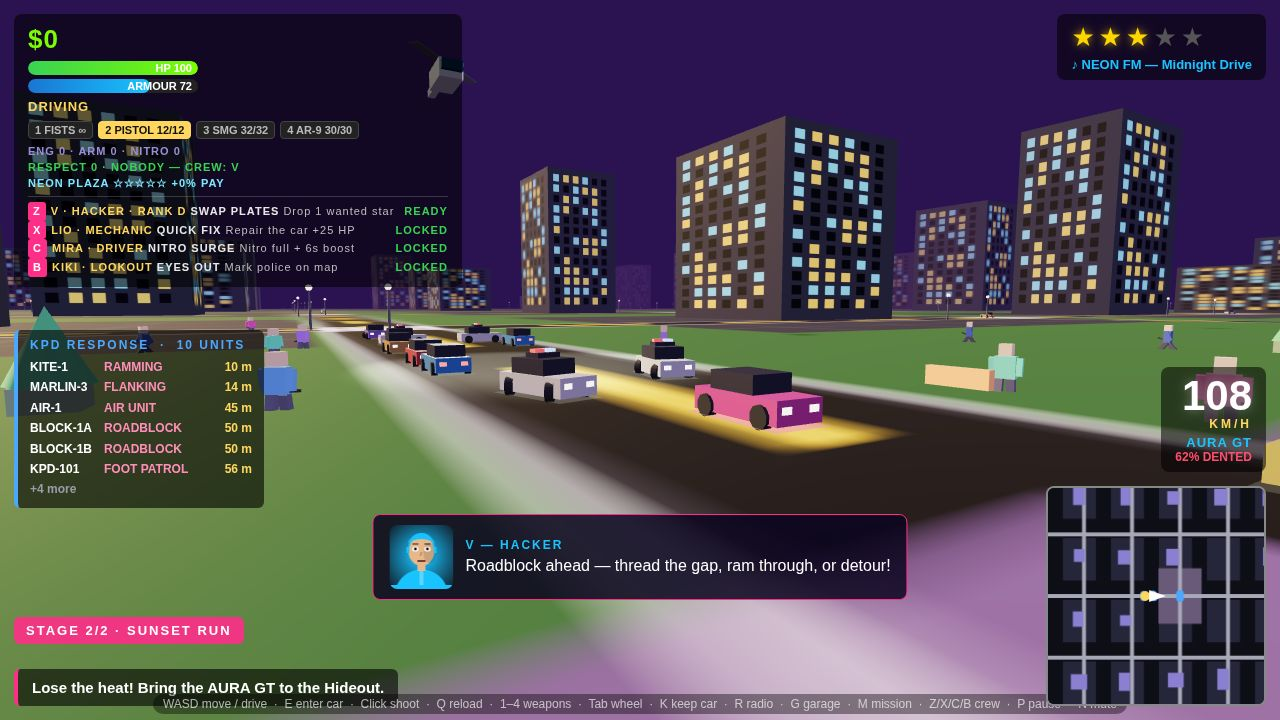
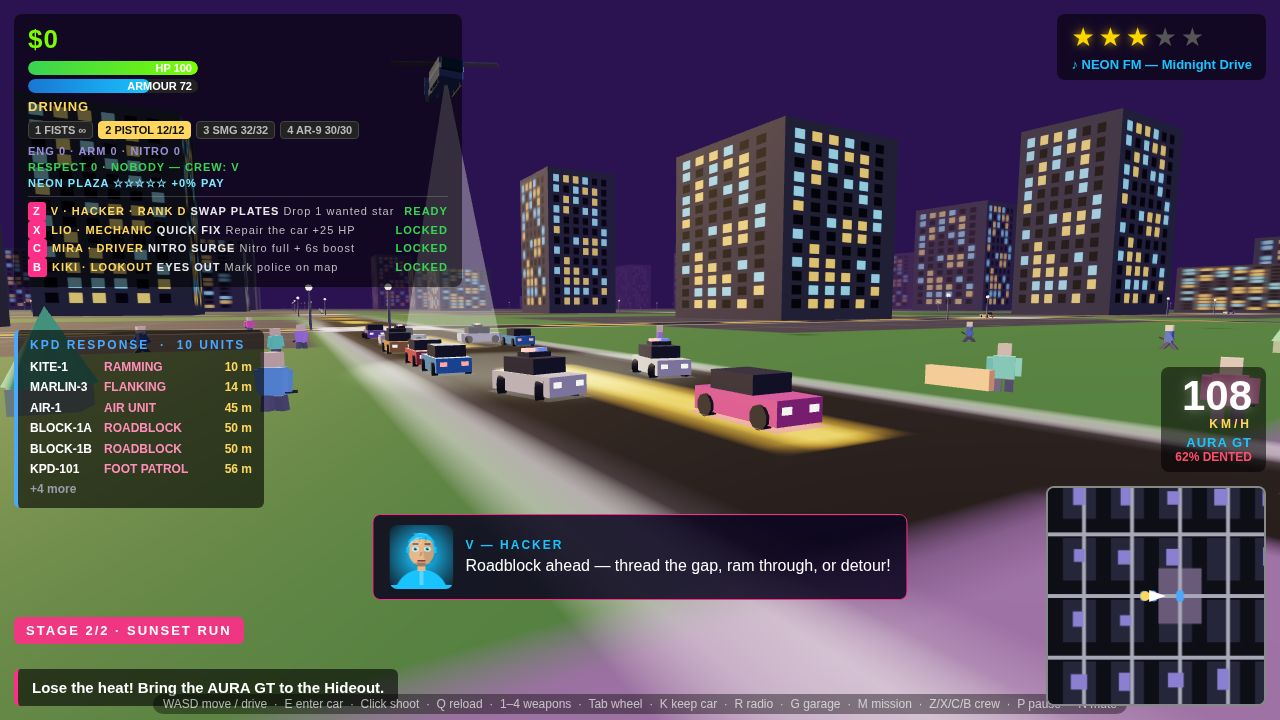
Art polish vs r1: heli searchlight cone + skids + navy body, shaded portraits, dense foreground staging

diff --git a/game/src/entities.js b/game/src/entities.js
@@ -101,27 +101,72 @@ const NV_ENTITIES = {
   },
 
   // News helicopter: body, tail, spinning rotor and a searchlight.
+  // Police helicopter: dark navy body with a white stripe (reads against
+  // the purple sunset sky instead of a white box), tail fin + tail rotor,
+  // landing skids, and a visible searchlight cone + ground spot so the
+  // searchlight reads in a still frame. The cone/spot are children of the
+  // group, scaled to the heli's altitude each frame by NV_POLICE; their
+  // creation defaults match a 26-unit hover (the mission shot's pose), so
+  // staged shots that never run the police loop still show them.
   makeHeli(scene) {
     const group = new THREE.Group();
-    const bodyMat = new THREE.MeshStandardMaterial({ color: 0xe8e8e8, roughness: 0.4, metalness: 0.3 });
+    const bodyMat = new THREE.MeshStandardMaterial({ color: 0x22345e, roughness: 0.4, metalness: 0.3 });
     const body = new THREE.Mesh(new THREE.BoxGeometry(4.5, 1.7, 2.2), bodyMat);
     group.add(body);
+    const stripe = new THREE.Mesh(new THREE.BoxGeometry(4.6, 0.4, 2.25), new THREE.MeshStandardMaterial({ color: 0xf2f2f2, roughness: 0.5 }));
+    stripe.position.set(0, 0.1, 0);
+    group.add(stripe);
     const tail = new THREE.Mesh(new THREE.BoxGeometry(5, 0.7, 0.7), bodyMat);
     tail.position.set(-4.4, 0.3, 0);
     group.add(tail);
+    const fin = new THREE.Mesh(new THREE.BoxGeometry(0.15, 1.8, 1.4), bodyMat);
+    fin.position.set(-6.6, 0.9, 0);
+    group.add(fin);
+    const tailRotor = new THREE.Mesh(new THREE.BoxGeometry(0.08, 2.2, 0.3), new THREE.MeshStandardMaterial({ color: 0x222222 }));
+    tailRotor.position.set(-6.6, 0.5, 0.45);
+    group.add(tailRotor);
     const glass = new THREE.Mesh(new THREE.BoxGeometry(1.2, 0.9, 1.9), new THREE.MeshStandardMaterial({ color: 0x0a2a3a, roughness: 0.2, metalness: 0.6 }));
     glass.position.set(2.2, 0.2, 0);
     group.add(glass);
     const rotor = new THREE.Mesh(new THREE.BoxGeometry(10, 0.08, 0.9), new THREE.MeshStandardMaterial({ color: 0x222222 }));
     rotor.position.y = 1.1;
     group.add(rotor);
+    // Landing skids: two rails + four struts.
+    const skidMat = new THREE.MeshStandardMaterial({ color: 0x222222, roughness: 0.6 });
+    for (const sz of [-1.0, 1.0]) {
+      const rail = new THREE.Mesh(new THREE.BoxGeometry(3.6, 0.12, 0.12), skidMat);
+      rail.position.set(0, -1.25, sz);
+      group.add(rail);
+      for (const sx of [-1.2, 1.2]) {
+        const strut = new THREE.Mesh(new THREE.BoxGeometry(0.12, 0.6, 0.12), skidMat);
+        strut.position.set(sx, -0.95, sz);
+        group.add(strut);
+      }
+    }
     const light = new THREE.SpotLight(0xfff2c0, 2.5, 220, 0.35, 0.5, 1.2);
     light.position.set(0, -0.8, 0);
     group.add(light);
     light.target.position.set(0, -60, 0);
     group.add(light.target);
+    // Visible searchlight cone (apex at the belly, base on the ground)
+    // + the bright pool where it lands. Unit cone scaled per frame.
+    const cone = new THREE.Mesh(
+      new THREE.ConeGeometry(1, 1, 24, 1, true),
+      new THREE.MeshBasicMaterial({ color: 0xfff2c0, transparent: true, opacity: 0.22, side: THREE.DoubleSide, depthWrite: false })
+    );
+    cone.scale.set(4, 26, 4);
+    cone.position.y = -13;
+    group.add(cone);
+    const spot = new THREE.Mesh(
+      new THREE.CircleGeometry(1, 24),
+      new THREE.MeshBasicMaterial({ color: 0xfff2c0, transparent: true, opacity: 0.38, depthWrite: false })
+    );
+    spot.rotation.x = -Math.PI / 2;
+    spot.position.y = -26;
+    spot.scale.set(3.5, 3.5, 1);
+    group.add(spot);
     scene.add(group);
-    return { group, rotor, light, yaw: 0, angle: 0 };
+    return { group, rotor, light, cone, spot, yaw: 0, angle: 0 };
   },
 
   // Arcade driving: accel/brake/steer with drift, 2 sub-steps, wall and

diff --git a/game/src/hud.js b/game/src/hud.js
@@ -37,7 +37,8 @@ const NV_HUD = {
     ctx.fill();
     ctx.fillStyle = 'rgba(255,255,255,0.3)';
     ctx.fillRect(30, 46, 4, 18);
-    // Neck + face, with a shaded cheek.
+    // Neck + face, with a shaded cheek, a forehead highlight from the
+    // top-left light, a jaw shadow and a neck shadow.
     ctx.fillStyle = p.skin;
     ctx.fillRect(28, 38, 8, 8);
     ctx.beginPath();
@@ -47,6 +48,16 @@ const NV_HUD = {
     ctx.beginPath();
     ctx.ellipse(40, 28, 6, 10, 0, 0, Math.PI * 2);
     ctx.fill();
+    ctx.fillStyle = 'rgba(255,255,255,0.18)';
+    ctx.beginPath();
+    ctx.ellipse(27, 17, 6, 4, -0.3, 0, Math.PI * 2);
+    ctx.fill();
+    ctx.fillStyle = 'rgba(0,0,0,0.15)';
+    ctx.beginPath();
+    ctx.ellipse(32, 39, 7, 3, 0, 0, Math.PI * 2);
+    ctx.fill();
+    ctx.fillStyle = 'rgba(0,0,0,0.2)';
+    ctx.fillRect(28, 38, 8, 3);
     // Hair, drawn per character.
     ctx.fillStyle = p.hair;
     if (key === 'mira') {
@@ -67,21 +78,40 @@ const NV_HUD = {
       ctx.closePath();
       ctx.fill();
     }
-    // Eyes: white, dark iris, eyebrow above each.
+    // Hair strands + a light streak so the hair reads as hair, not a cap,
+    // and a rim light on the head's top-left edge.
+    ctx.strokeStyle = 'rgba(0,0,0,0.25)';
+    ctx.lineWidth = 1;
+    for (const sx of [24, 30, 36]) {
+      ctx.beginPath(); ctx.moveTo(sx, 10); ctx.quadraticCurveTo(sx + 1, 14, sx, 17); ctx.stroke();
+    }
+    ctx.strokeStyle = 'rgba(255,255,255,0.35)';
+    ctx.beginPath(); ctx.moveTo(24, 9); ctx.quadraticCurveTo(30, 8, 38, 10); ctx.stroke();
+    ctx.strokeStyle = 'rgba(255,255,255,0.4)';
+    ctx.lineWidth = 1.5;
+    ctx.beginPath(); ctx.arc(32, 26, 13.5, Math.PI, Math.PI * 1.5); ctx.stroke();
+    // Eyes: white, coloured iris, dark pupil, catchlight, eyebrow above each.
+    const iris = key === 'v' ? '#19c3ff' : key === 'lio' ? '#6b4a2a' : key === 'mira' ? '#7a4fd0' : key === 'kiki' ? '#2fae4e' : '#3a3a4a';
     for (const ex of [26, 38]) {
       ctx.fillStyle = '#fff';
       ctx.beginPath(); ctx.ellipse(ex, 24, 3.2, 2.6, 0, 0, Math.PI * 2); ctx.fill();
+      ctx.fillStyle = iris;
+      ctx.beginPath(); ctx.arc(ex, 24, 2.1, 0, Math.PI * 2); ctx.fill();
       ctx.fillStyle = '#111';
-      ctx.beginPath(); ctx.arc(ex, 24, 1.4, 0, Math.PI * 2); ctx.fill();
+      ctx.beginPath(); ctx.arc(ex, 24, 1.1, 0, Math.PI * 2); ctx.fill();
+      ctx.fillStyle = '#fff';
+      ctx.beginPath(); ctx.arc(ex + 0.7, 23.2, 0.6, 0, Math.PI * 2); ctx.fill();
       ctx.fillStyle = '#222';
       ctx.fillRect(ex - 3, 18.5, 6, 1);
     }
-    // Nose + mouth.
+    // Nose + two-tone lips (darker upper, lighter lower).
     ctx.strokeStyle = 'rgba(0,0,0,0.35)';
     ctx.lineWidth = 1;
     ctx.beginPath(); ctx.moveTo(32, 27); ctx.lineTo(31, 31); ctx.stroke();
-    ctx.fillStyle = '#7a3a3a';
-    ctx.fillRect(28, 35, 8, 2);
+    ctx.fillStyle = '#8a3a3a';
+    ctx.fillRect(28, 35, 8, 1);
+    ctx.fillStyle = '#b06a6a';
+    ctx.fillRect(28, 36, 8, 1);
     // Per-character accessory.
     if (key === 'v') {
       ctx.strokeStyle = '#19c3ff'; ctx.lineWidth = 2;

diff --git a/main.ts b/main.ts
@@ -25,7 +25,10 @@
 // on the HUD, every stage named in-story, crew rank letters (V — HACKER · RANK B) on the
 // crew-ability panel, and a radio song line per station (NEON FM — Midnight Drive) with a
 // rotating playlist, textured ground (sidewalk tiles, crosswalks, plaza checker,
-// beach towels), a start screen and a localStorage save. Put your 3 or 4 PNG or JPEG screenshots
+// beach towels), a start screen and a localStorage save. Art polish: the news helicopter is a
+// dark-navy police bird with skids, tail fin and a visible searchlight cone + ground pool; dialog
+// portraits are shaded canvas faces with coloured irises and catchlights; the cover/chase/mission
+// frames are staged with foreground street life so no frame is bare asphalt. Put your 3 or 4 PNG or JPEG screenshots
 // in screenshots/ (the first by name is the cover) and run it.
 //
 // Serve it locally with `node serve.ts`, then open http://localhost:8080.

diff --git a/game/src/shots.js b/game/src/shots.js
@@ -93,6 +93,14 @@ const NV_SHOTS = {
       ]);
       // Planters along the beach road by the camera, filling the near corners.
       G.world.addPlanter(-30, 748); G.world.addPlanter(34, 747); G.world.addBench(-36, 744, Math.PI / 2);
+      // Bottom-centre foreground: a parked car right in front of the
+      // camera, so the lower middle of the cover is street, not a bare
+      // stretch of asphalt. Static (not in the traffic lists) so it holds
+      // its pose for the shot; it sits off the sight line to the hero, so
+      // it never blocks the AURA GT.
+      const fg = NV_ENTITIES.makeCar(0x3aa7ff, 'parked');
+      fg.group.position.set(2, 0, 750); fg.yaw = -0.3; fg.group.rotation.y = -0.3;
+      G.scene.add(fg.group); G.cars.push(fg);
       // The cover frame shows the new HUD: armour bar, crew panel,
       // stage chip (m1, stage 2/2 · LOSE THE HEAT) and the speedo on the AURA GT.
       G.player.armour = 55;

diff --git a/game/src/world.js b/game/src/world.js
@@ -134,6 +134,15 @@ const NV_WORLD = {
     ground.rotation.x = -Math.PI / 2;
     ground.position.set(0, 0, 0);
     scene.add(ground);
+    // Zebra crosswalk across the x=0 avenue where it meets the beach
+    // road (z 747-751): flat white bars that break up the asphalt in the
+    // cover frame's foreground instead of a bare stretch of road.
+    const crossMat = new THREE.MeshBasicMaterial({ color: 0xe8e8e8 });
+    for (const cz of [747, 749, 751]) {
+      const bar = new THREE.Mesh(new THREE.BoxGeometry(8, 0.06, 1.2), crossMat);
+      bar.position.set(0, 0.06, cz);
+      scene.add(bar);
+    }
 
     // --- Ocean: animated wave texture on a plane south of the beach.
     const oc = document.createElement('canvas'); oc.width = 512; oc.height = 256;

diff --git a/game/src/police.js b/game/src/police.js
@@ -179,6 +179,19 @@ const NV_POLICE = {
         h.rotor.rotation.y += dt * 22;
         h.light.target.position.set(playerPos.x - hx, -58, playerPos.z - hz);
         h.light.target.updateMatrixWorld();
+        // Searchlight cone + ground spot: the cone spans the heli belly
+        // down to the ground and the spot sits on the ground below it,
+        // so the searchlight reads in a still frame, not just in motion.
+        if (h.cone) {
+          const r = Math.max(2.5, hy * 0.18);
+          h.cone.scale.set(r, hy, r);
+          h.cone.position.y = -hy / 2;
+        }
+        if (h.spot) {
+          const sr = Math.max(2.5, hy * 0.15);
+          h.spot.scale.set(sr, sr, 1);
+          h.spot.position.y = -hy;
+        }
       }
     }
   },
